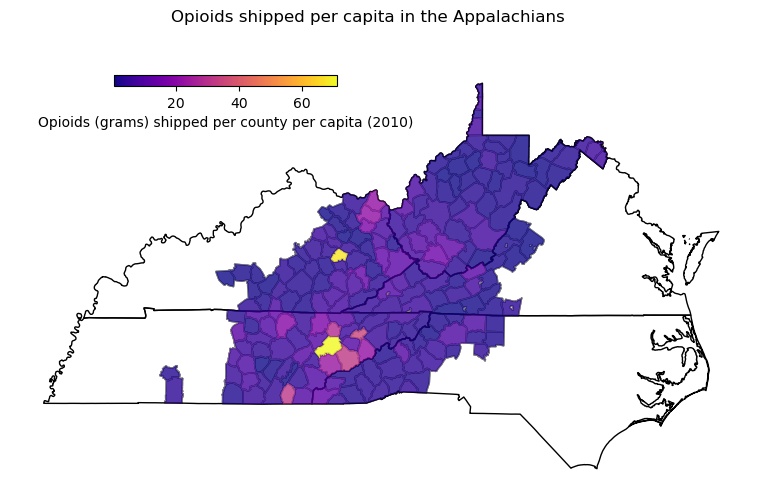
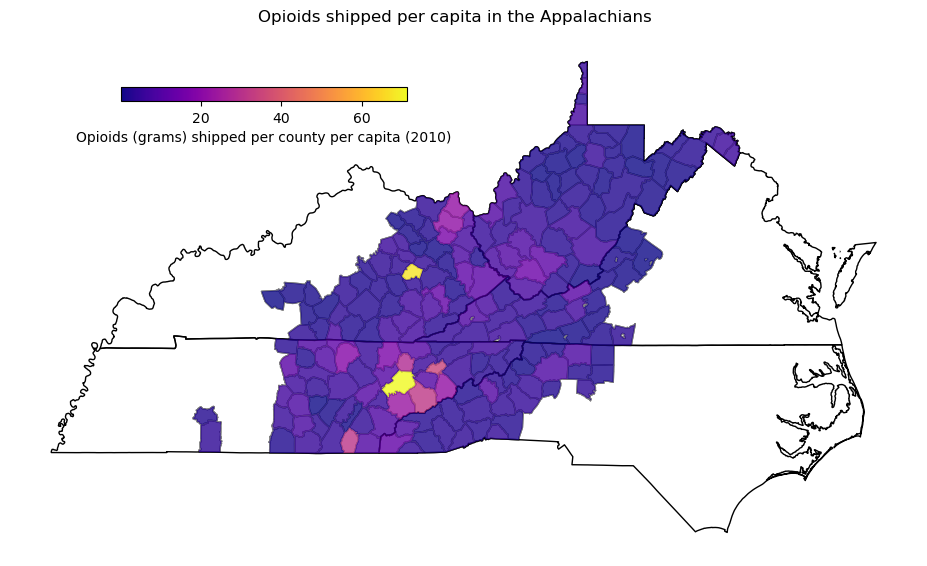
map size

diff --git a/dataproject/utils.py b/dataproject/utils.py
@@ -192,7 +192,7 @@ def make_descrip_maps_shipment_single(gdf_counties: gpd.GeoDataFrame, gdf_states
         plt.Figure: A figure of county shipments (adjust variables if needed).
     '''
 
-    fig,ax = plt.subplots(figsize=(8,7))
+    fig,ax = plt.subplots(figsize=(10,8))
 
     gdf_counties.plot(ax=ax, color='none', edgecolor='grey')
     gdf_states.plot(ax=ax, color='none', edgecolor='k')
